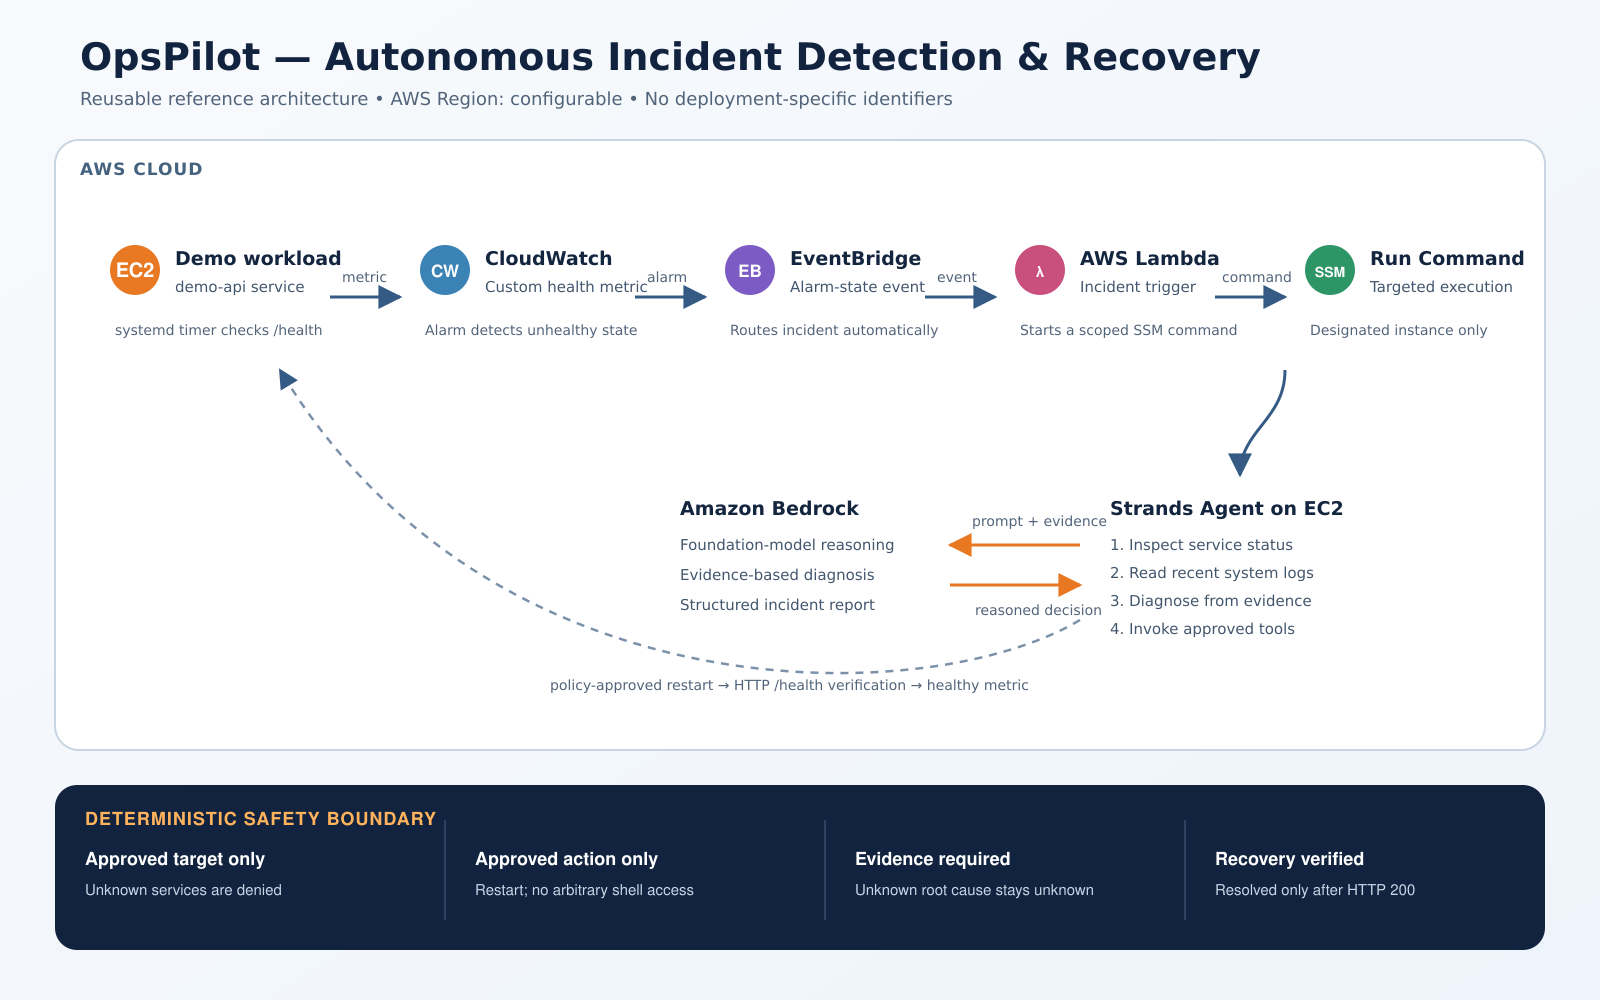
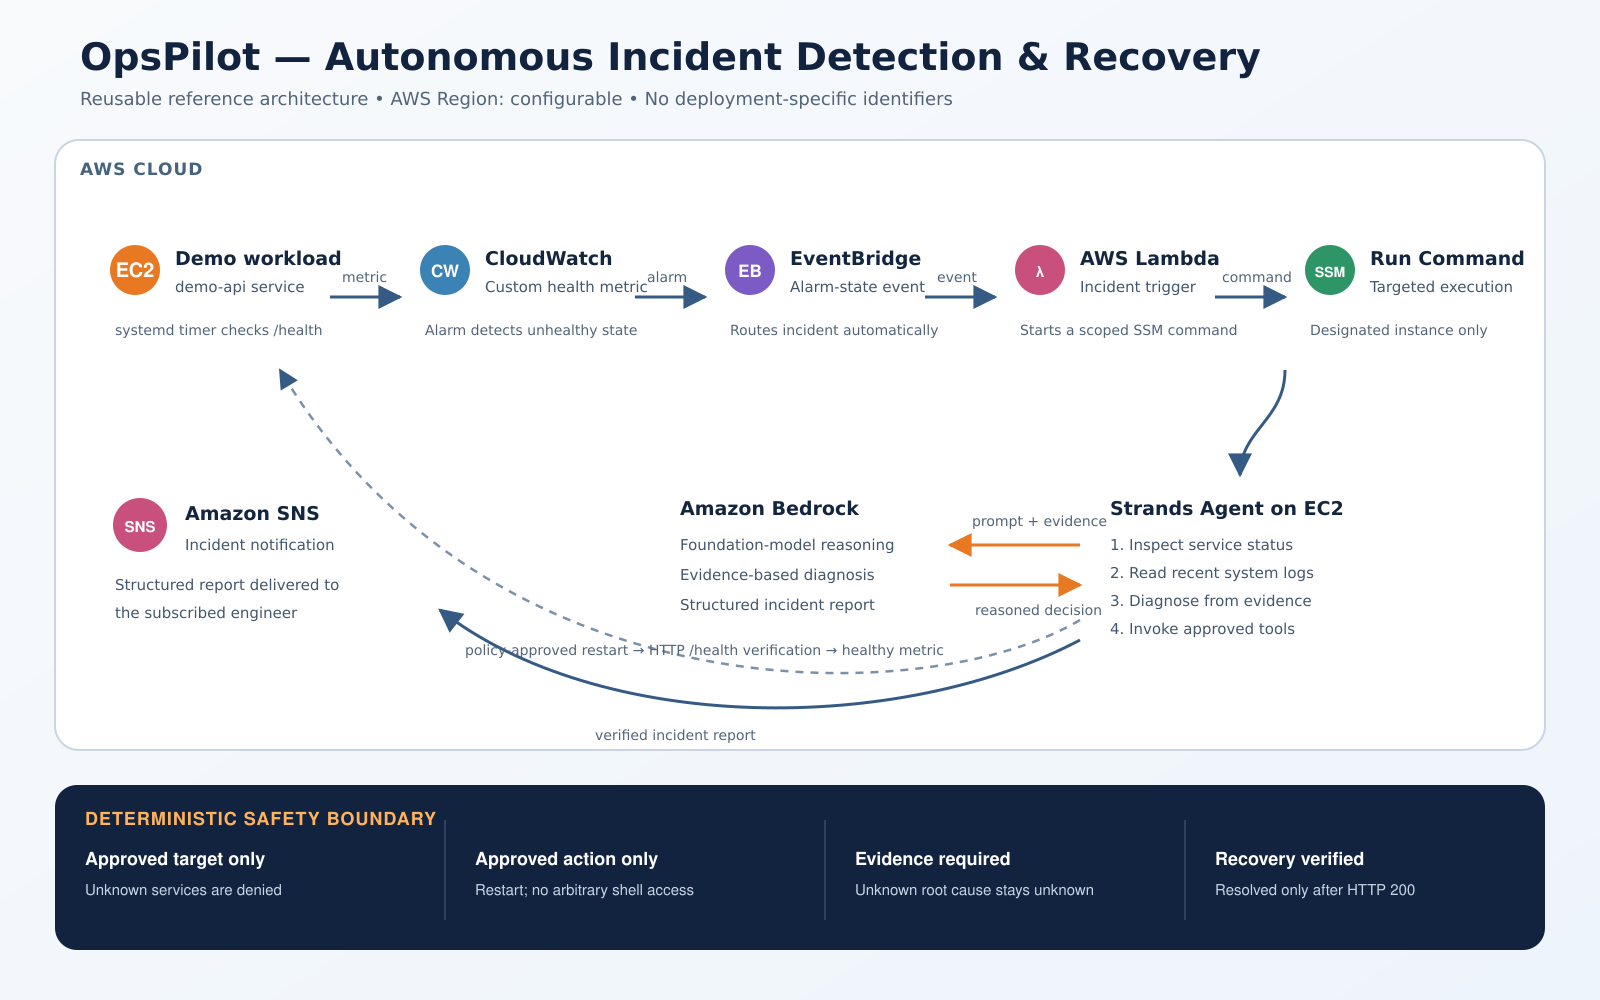
Add SNS incident report notifications

diff --git a/agent.py b/agent.py
@@ -8,8 +8,10 @@ from strands.models.openai_responses import OpenAIResponsesModel
 
 REGION = os.getenv("AWS_REGION", "us-east-1")
 INSTANCE_ID = os.environ["OPSPILOT_INSTANCE_ID"]
+SNS_TOPIC_ARN = os.getenv("OPSPILOT_SNS_TOPIC_ARN")
 
 ssm = boto3.client("ssm", region_name=REGION)
+sns = boto3.client("sns", region_name=REGION)
 
 
 def run_ssm_command(command: str) -> dict:
@@ -161,7 +163,7 @@ agent = Agent(
 )
 
 if __name__ == "__main__":
-    agent(
+    result = agent(
     "Investigate the unhealthy demo application. "
     "Use get_service_status and get_recent_logs before taking remediation action. "
     "Base every conclusion strictly on tool evidence. "
@@ -183,3 +185,22 @@ if __name__ == "__main__":
     "Report: initial state, failure condition, relevant evidence, underlying root cause, "
     "root-cause confidence, remediation action, verification result, and final incident status."
 )
+
+    incident_report = str(result)
+
+    if SNS_TOPIC_ARN:
+        try:
+            notification = sns.publish(
+                TopicArn=SNS_TOPIC_ARN,
+                Subject="OpsPilot Incident Report",
+                Message=incident_report,
+            )
+            print(
+                "\nIncident notification published to SNS. "
+                f"MessageId: {notification['MessageId']}"
+            )
+        except Exception as error:
+            print(
+                "\nWARNING: Incident processing completed, but the optional "
+                f"SNS notification failed: {error}"
+            )

diff --git a/lambda_function.py b/lambda_function.py
@@ -4,6 +4,7 @@ import boto3
 
 REGION = os.getenv("AWS_REGION", "us-east-1")
 INSTANCE_ID = os.environ["OPSPILOT_INSTANCE_ID"]
+SNS_TOPIC_ARN = os.getenv("OPSPILOT_SNS_TOPIC_ARN")
 
 ssm = boto3.client("ssm", region_name=REGION)
 
@@ -11,8 +12,13 @@ def lambda_handler(event, context):
     print("OpsPilot received CloudWatch alarm event:")
     print(json.dumps(event))
 
+    environment = f"OPSPILOT_INSTANCE_ID={INSTANCE_ID}"
+
+    if SNS_TOPIC_ARN:
+        environment += f" OPSPILOT_SNS_TOPIC_ARN={SNS_TOPIC_ARN}"
+
     command = (
-	f"OPSPILOT_INSTANCE_ID={INSTANCE_ID} "
+	f"{environment} "
         "/home/ec2-user/opspilot-venv/bin/python "
         "/home/ec2-user/agent.py "
         "> /tmp/opspilot-agent.log 2>&1"

diff --git a/README.md b/README.md
@@ -23,7 +23,8 @@ The goal is not to give an LLM unrestricted infrastructure access. The goal is t
 7. It separates the observed failure condition from the underlying root cause and refuses to guess when evidence is insufficient.
 8. A deterministic policy permits only the approved restart of `demo-api`.
 9. The agent verifies the application through `http://localhost:8000/health`.
-10. The next healthy metric returns the CloudWatch alarm to `OK`.
+10. Amazon SNS delivers the structured incident report to the subscribed engineer.
+11. The next healthy metric returns the CloudWatch alarm to `OK`.
 
 ## Core Agent Tools
 
@@ -61,6 +62,7 @@ OpsPilot uses deterministic controls around the model:
 - IAM least-privilege policies
 - Python and Bash
 - `systemd`
+- Amazon SNS
 
 ## Repository Structure
 
@@ -76,13 +78,17 @@ opspilot-agent/
 │   ├── opspilot-architecture.png
 │   └── opspilot-architecture.svg
 ├── infrastructure/
+│   ├── cloudformation/
+│   │   └── opspilot-automation.yaml
 │   └── iam/
 │       ├── cloudwatch-policy.example.json
 │       ├── ec2-agent-ssm-policy.example.json
+│       ├── ec2-agent-sns-policy.example.json
 │       └── lambda-ssm-policy.example.json
 ├── monitoring/
 │   └── publish_health_metric.sh
 ├── scripts/
+│   ├── deploy-automation.ps1
 │   └── list_models.py
 ├── systemd/
 │   ├── demo-api.service
@@ -114,6 +120,7 @@ cp .env.example .env
 ```text
 AWS_REGION=us-east-1
 OPSPILOT_INSTANCE_ID=i-xxxxxxxxxxxxxxxxx
+OPSPILOT_SNS_TOPIC_ARN=arn:aws:sns:us-east-1:123456789012:OpsPilotIncidentNotifications
 ```
 
 Do not commit `.env`. It is excluded by `.gitignore`.
@@ -175,16 +182,16 @@ systemctl is-active opspilot-health.timer
 For a new deployment using an existing EC2 instance, the included template creates the CloudWatch alarm, EventBridge rule, Lambda function, Lambda execution role, scoped SSM policy, EventBridge target, and Lambda invocation permission:
 
 ```powershell
-.\scripts\deploy-automation.ps1 -InstanceId i-xxxxxxxxxxxxxxxxx
+.\scripts\deploy-automation.ps1 -InstanceId i-xxxxxxxxxxxxxxxxx -NotificationEmail you@example.com
 ```
 
-The template is located at:
+The optional email recipient must confirm the subscription message sent by AWS before notifications can be delivered. The template is located at:
 
 ```text
 infrastructure/cloudformation/opspilot-automation.yaml
 ```
 
-Use unique `LambdaFunctionName`, `AlarmName`, or `EventRuleName` parameter values if resources with the defaults already exist. The EC2 workload, agent, health publisher, systemd units, EC2 instance profile, and Bedrock access must be installed first as described above.
+Use unique `LambdaFunctionName`, `AlarmName`, `EventRuleName`, or `NotificationTopicName` parameter values if resources with the defaults already exist. The EC2 workload, agent, health publisher, systemd units, EC2 instance profile, and Bedrock access must be installed first as described above.
 
 ### Manual Lambda update
 
@@ -194,10 +201,10 @@ Create the Lambda deployment package:
 Compress-Archive -Path .\lambda_function.py -DestinationPath .\opspilot-lambda.zip -Force
 ```
 
-Configure the Lambda environment variable:
+Configure the Lambda environment variables:
 
 ```powershell
-aws lambda update-function-configuration --function-name OpsPilotAlarmHandler --environment "Variables={OPSPILOT_INSTANCE_ID=i-xxxxxxxxxxxxxxxxx}"
+aws lambda update-function-configuration --function-name OpsPilotAlarmHandler --environment "Variables={OPSPILOT_INSTANCE_ID=i-xxxxxxxxxxxxxxxxx,OPSPILOT_SNS_TOPIC_ARN=arn:aws:sns:us-east-1:123456789012:OpsPilotIncidentNotifications}"
 ```
 
 Upload the function code:
@@ -248,13 +255,14 @@ Expected outcome:
 - The root cause remains `unknown` unless supported by evidence.
 - The policy-approved restart succeeds.
 - Verification reports HTTP `200`.
+- Amazon SNS delivers the structured report to the confirmed email subscriber.
 - The CloudWatch alarm returns to `OK` after the next healthy metric.
 
 ## Current Scope
 
 OpsPilot is a focused hackathon prototype built around one service and one bounded remediation action. It intentionally avoids unnecessary orchestration layers and databases so the agent behavior, evidence trail, and safety model remain easy to understand and demonstrate.
 
-Possible future extensions include human approval for higher-risk actions, notifications, additional allowlisted runbooks, persistent incident history, and deployment through infrastructure as code.
+Possible future extensions include human approval for higher-risk actions, additional allowlisted runbooks, persistent incident history, and an optional AgentCore deployment profile.
 
 ## License
 
